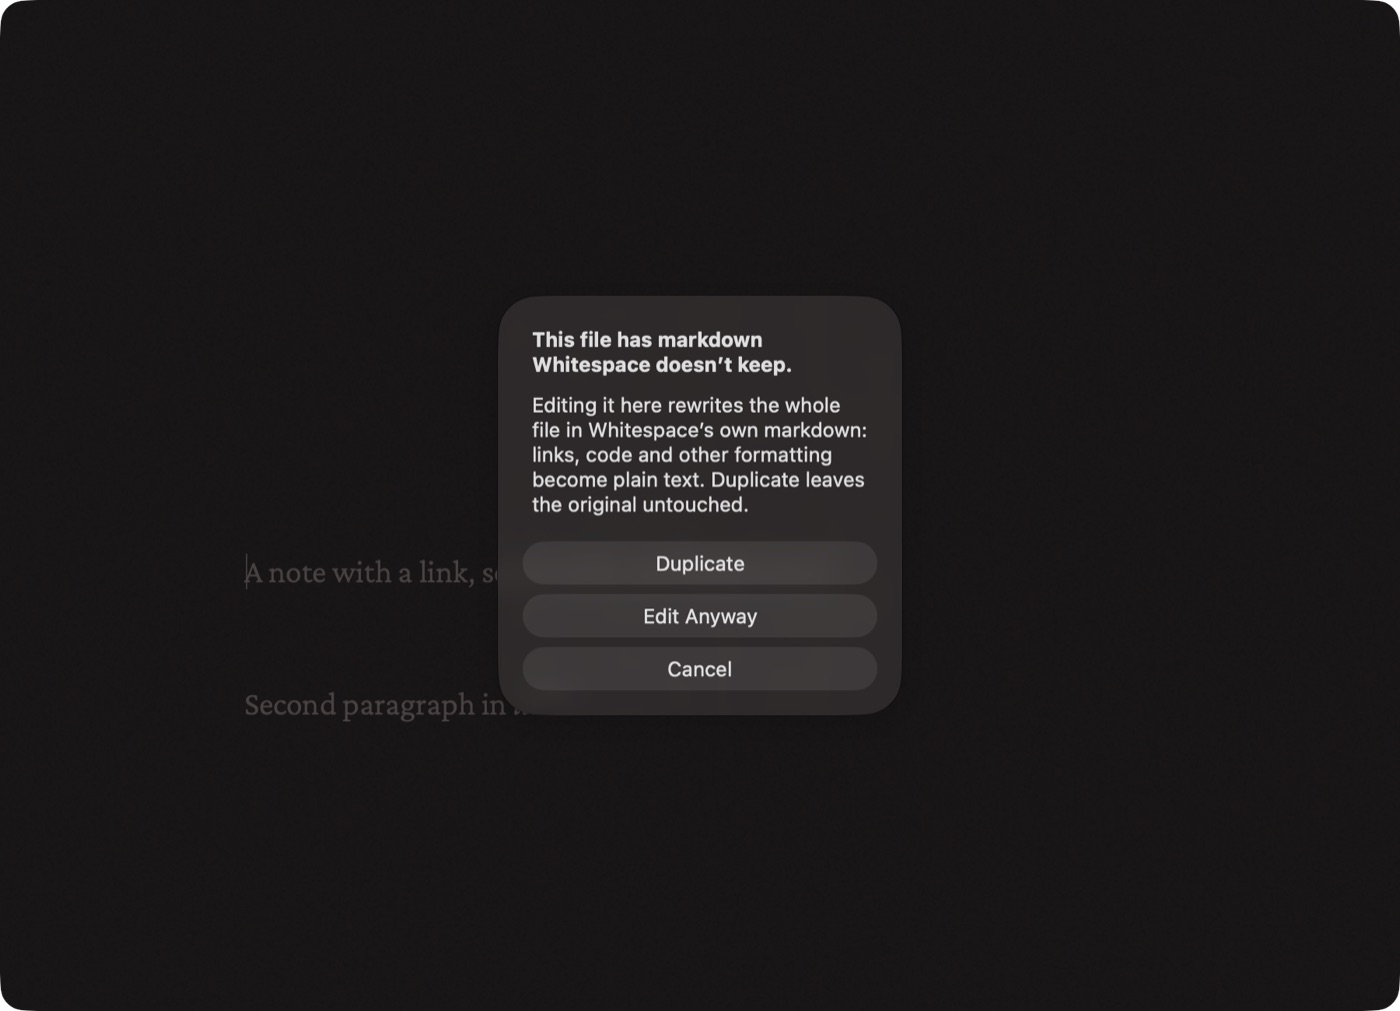
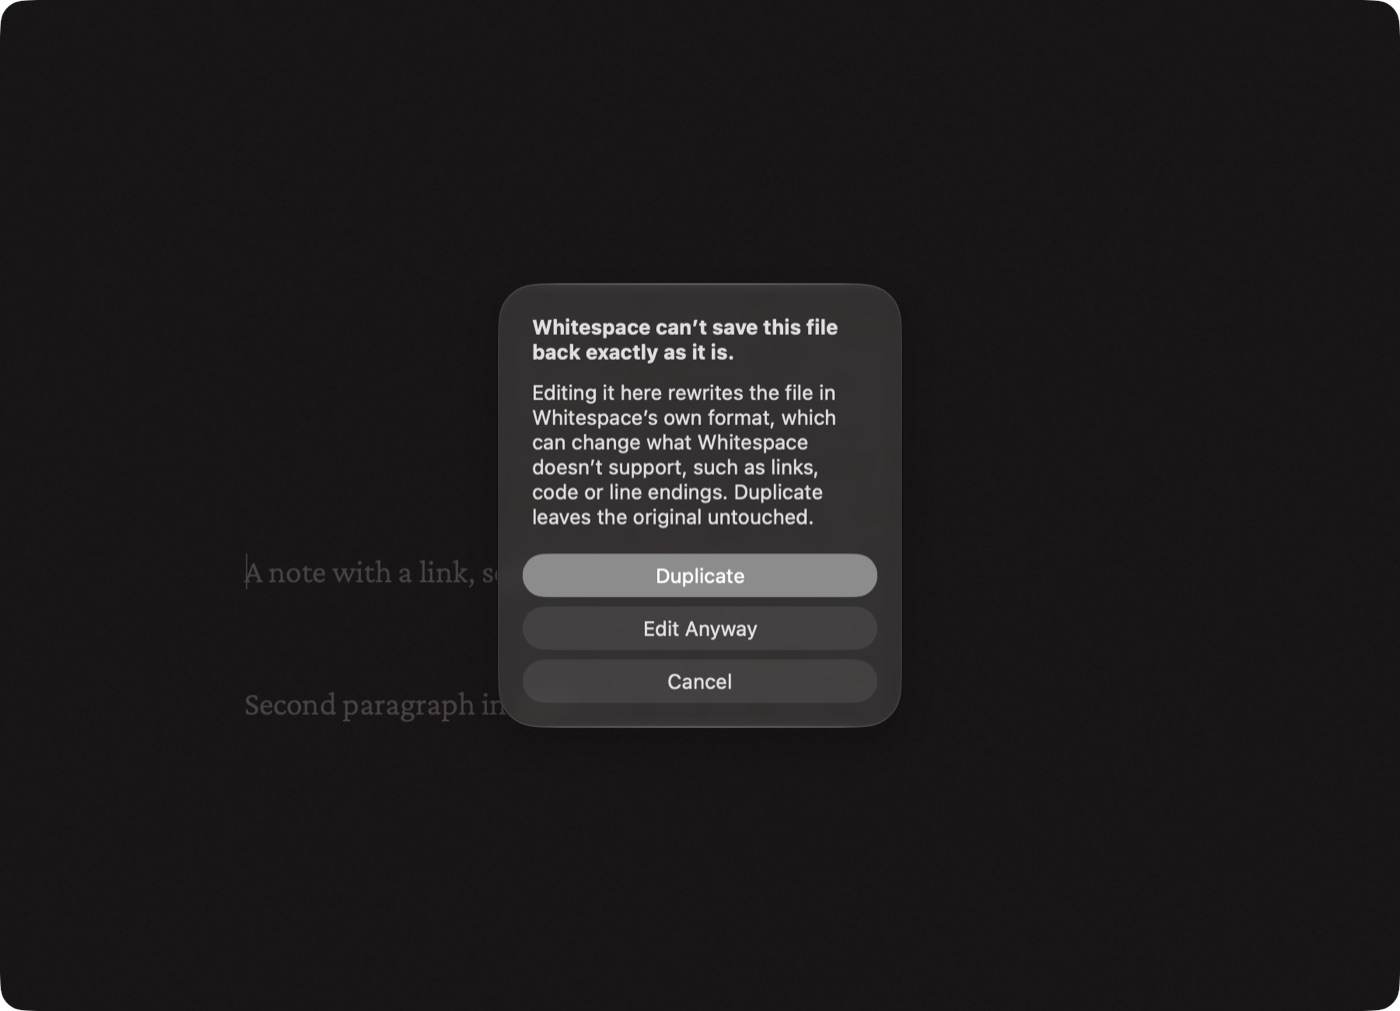
docs: current screenshots and test count for the read path

Changed region(s): [[0.3379, 0.276, 0.645, 0.7359]]

diff --git a/CLAUDE.md b/CLAUDE.md
@@ -43,8 +43,8 @@ This repo follows the standard team flow even though it has one owner, so the ha
 
 ## Build, test, run
 
-Plain `xcodebuild` is the baseline and needs nothing else running. Verified 2026-11-18 on
-Xcode 27.2: 151 tests, 0 failures, about 15 s of test time (`TypewriterRecenterTests` is
+Plain `xcodebuild` is the baseline and needs nothing else running. Verified 2026-11-19 on
+Xcode 27.2: 185 tests, 0 failures, about 18 s of test time (`TypewriterRecenterTests` is
 nearly all of it).
 
 ```bash
